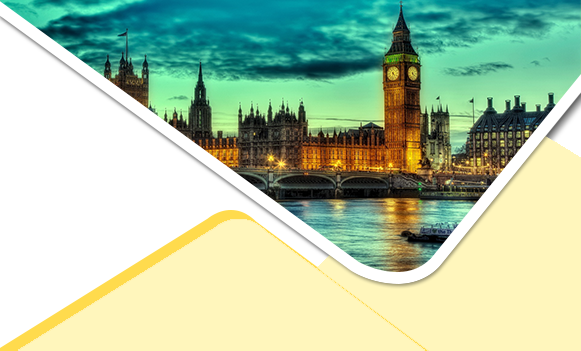
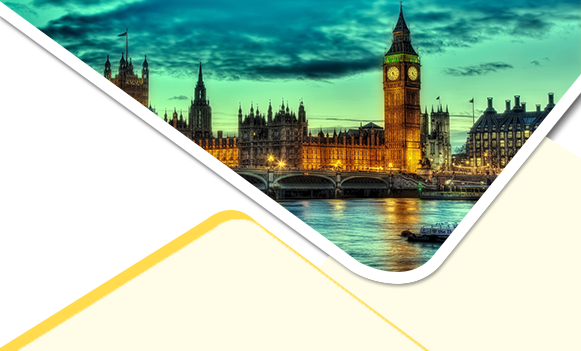
edit color more lighter

Changed region(s): [[0.031, 0.3989, 1.0, 1.0]]

diff --git a/css/style.min.css b/css/style.min.css
@@ -1,1 +1,1 @@
-*{font-family:sans-serif,fantasy;font-weight:600}body{font-size:1.5rem;color:#7b7b7b}.no-margin{margin:0}.no-padding{padding:0}.overflow-hidden{overflow:hidden}.position-reltive{position:relative}.no-border-radius{-ms-border-radius:0!important;-moz-border-radius:0!important;-webkit-border-radius:0!important;border-radius:0!important}.text-left{text-align:left}.text-justify{text-justify:justify}.p-t-2{padding-top:2%}.p-t-5{padding-top:5%}.p-t-20{padding-top:20px}.p-b-30{padding-bottom:30px}.m-t-14-res-5{margin-top:14%}.m-l-30{margin-left:30px}@media (max-width:767px){.m-t-14-res-5{margin-top:5%}}header{background-color:#ceefff}.header-img{width:100%;margin-top:-16px}.envelop{background-color:#fff;-webkit-box-shadow:1px 1px 3px #797979;-ms-box-shadow:1px 1px 3px #797979;box-shadow:1px 1px 3px#797979;width:12%;border-radius:0 0 15px 15px;padding:5px 0;position:absolute;left:149px;z-index:1}.envelop img,.footer-envelop img{width:100%}.small-header{color:#005977;font-style:italic;font-weight:800;font-size:19px;width:199px}header{text-align:left}header .row .col-xs-8,header .row .col-xs-4,header .row .col-xs-12{float:right;text-align:right}@media (max-width:1200px) and (min-width:767px){.header-img{height:258px;width:120%}.prag-text{font-size:1.4rem}}@media (max-width:767px){.header-img{width:66%}.envelop{left:15px;border-radius:0 0 8px 8px}.media-color-bg{background-color:#fff6bc}.envelop{width:20%}.small-header{font-size:18px}}@media (max-width:575px){header{direction:ltr}header .row .col-xs-8,header .row .col-xs-4,header .row .col-xs-12{float:left}header .row{direction:ltr}.header-img{width:76%}.small-header{font-size:16px}}.section1{background-color:#fff6bc}.section2{background-color:#fff}.section3{background:#fff6bc}@media (max-width:767px){header .prag-text{padding-bottom:4%}}.mascot-div{margin-left:15px;position:relative;display:block;text-decoration:none!important;min-height:100px;margin-bottom:50px}.mascot-img-div{cursor:pointer;width:100px;height:100px;-moz-transition:all 0.5s ease-in;-ms-transition:all 0.5s ease-in;-webkit-transition:all 0.5s ease-in;transition:all 0.1s ease-in}.mascot-div img{width:100%;-ms-border-radius:50%;-webkit-border-radius:50%;border-radius:50%}.mascot-details{color:#7b7b7b;font-size:15px;text-align:center;text-decoration:none}.dot{cursor:pointer;background:transparent;-webkit-border-radius:70px;-moz-border-radius:70px;border-radius:70px;height:130px;width:130px;-webkit-animation:pulse 3s ease-out;-moz-animation:pulse 3s ease-out;animation:pulse 3s ease-out;-webkit-animation-iteration-count:infinite;-moz-animation-iteration-count:infinite;animation-iteration-count:infinite;position:absolute;top:-16px;left:-15px;z-index:1;opacity:0}.dot-cyan{border:5px solid#ceefff}.dot-yellow{border:5px solid #ffdb4d}@keyframes pulse{0%{-webkit-transform:scale(.5);-moz-transform:scale(.5);transform:scale(.5);opacity:0}25%{-webkit-transform:scale(.5);-moz-transform:scale(.5);transform:scale(.5);opacity:.3}50%{-webkit-transform:scale(.6);-moz-transform:scale(.6);transform:scale(.6);opacity:.5}75%{-webkit-transform:scale(.8);-moz-transform:scale(.8);transform:scale(.8);opacity:.9}100%{-webkit-transform:scale(1.5);-ms-transform:scale(1.5);-moz-transform:scale(1.5);transform:scale(1.5);opacity:0}}.mascot-circle{margin-top:-136px;border-radius:50%;width:0;height:0;padding:0;overflow:hidden;transition:all 0.5s ease-in}.mascot-circle-cyan{background-color:#ceefff}.mascot-circle-yellow{background-color:#ffec9f}.active{width:350px;height:350px;padding:140px 30px 30px 30px}.mascot-title{position:absolute;width:220px;top:20px;left:77px;font-size:15px}.second-row-mascot{margin-top:-30px;font-size:13px}@media(max-width:500px){.active{width:280px;height:280px}.second-row-mascot{margin-top:-31px;font-size:10px}.first-row-mascot{margin-top:-31px;font-size:10px}.mascot-title{width:220px}.prag-algorithm-bg{background-color:#ffec9f;position:relative;z-index:3;margin-top:-4px}.div-mascot-api.active{padding:140px 6px 30px 6px!important}.div-mascot-api p{font-size:9px}}.mascot-api{-webkit-border-radius:50%;-moz-border-radius:50%;-ms-border-radius:50%;border-radius:50%;background-color:#ceefff;padding:10px}.mail-mascot{-webkit-border-radius:50%;-moz-border-radius:50%;-ms-border-radius:50%;border-radius:50%;background-color:#ffec9f;padding:10px}.footer{background-color:#ceefff;position:relative;font-size:15px}.footer-envelop{background-color:#fff;-webkit-box-shadow:-1px -1px 3px #797979;-ms-box-shadow:-1px -1px 3px #797979;box-shadow:-1px -1px 3px#797979;width:12%;border-radius:15px 15px 0 0;padding:5px 0;position:absolute;right:50px;bottom:0;z-index:1}@media (max-width:767px){.footer-envelop{width:20%}}@media (max-width:767px) and (min-width:620px){footer .prag-text{margin-bottom:50px}}
+*{font-family:sans-serif,fantasy;font-weight:600}body{font-size:1.5rem;color:#7b7b7b}.no-margin{margin:0}.no-padding{padding:0}.overflow-hidden{overflow:hidden}.position-reltive{position:relative}.no-border-radius{-ms-border-radius:0!important;-moz-border-radius:0!important;-webkit-border-radius:0!important;border-radius:0!important}.text-left{text-align:left}.text-justify{text-justify:justify}.p-t-2{padding-top:2%}.p-t-5{padding-top:5%}.p-t-20{padding-top:20px}.p-b-30{padding-bottom:30px}.m-t-14-res-5{margin-top:14%}.m-l-30{margin-left:30px}@media (max-width:767px){.m-t-14-res-5{margin-top:5%}}header{background-color:#e0eef9}.header-img{width:100%;margin-top:-16px}.envelop{background-color:#fff;-webkit-box-shadow:1px 1px 3px #797979;-ms-box-shadow:1px 1px 3px #797979;box-shadow:1px 1px 3px#797979;width:12%;border-radius:0 0 15px 15px;padding:5px 0;position:absolute;left:149px;z-index:1}.envelop img,.footer-envelop img{width:100%}.small-header{color:#005977;font-style:italic;font-weight:800;font-size:19px;width:199px}header{text-align:left}header .row .col-xs-8,header .row .col-xs-4,header .row .col-xs-12{float:right;text-align:right}@media (max-width:1200px) and (min-width:767px){.header-img{height:258px;width:120%}.prag-text{font-size:1.4rem}}@media (max-width:767px){.header-img{width:66%}.envelop{left:15px;border-radius:0 0 8px 8px}.media-color-bg{background-color:#fffce7}.envelop{width:20%}.small-header{font-size:18px}}@media (max-width:575px){header{direction:ltr}header .row .col-xs-8,header .row .col-xs-4,header .row .col-xs-12{float:left}header .row{direction:ltr}.header-img{width:76%}.small-header{font-size:16px}}.section1{background-color:#fffce7}.section2{background-color:#fff}.section3{background:#fffce7}@media (max-width:767px){header .prag-text{padding-bottom:4%}section .prag-text{padding-top:30px}}.mascot-div{margin-left:15px;position:relative;display:block;text-decoration:none!important;min-height:100px;margin-bottom:50px}.mascot-img-div{cursor:pointer;width:100px;height:100px;-moz-transition:all 0.5s ease-in;-ms-transition:all 0.5s ease-in;-webkit-transition:all 0.5s ease-in;transition:all 0.1s ease-in}.mascot-div img{width:100%;-ms-border-radius:50%;-webkit-border-radius:50%;border-radius:50%}.mascot-details{color:#7b7b7b;font-size:15px;text-align:center;text-decoration:none}.dot{cursor:pointer;background:transparent;-webkit-border-radius:70px;-moz-border-radius:70px;border-radius:70px;height:130px;width:130px;-webkit-animation:pulse 3s ease-out;-moz-animation:pulse 3s ease-out;animation:pulse 3s ease-out;-webkit-animation-iteration-count:infinite;-moz-animation-iteration-count:infinite;animation-iteration-count:infinite;position:absolute;top:-16px;left:-15px;z-index:1;opacity:0}.dot-cyan{border:5px solid#ceefff}.dot-yellow{border:5px solid #ffdb4d}@keyframes pulse{0%{-webkit-transform:scale(.5);-moz-transform:scale(.5);transform:scale(.5);opacity:0}25%{-webkit-transform:scale(.5);-moz-transform:scale(.5);transform:scale(.5);opacity:.3}50%{-webkit-transform:scale(.6);-moz-transform:scale(.6);transform:scale(.6);opacity:.5}75%{-webkit-transform:scale(.8);-moz-transform:scale(.8);transform:scale(.8);opacity:.9}100%{-webkit-transform:scale(1.5);-ms-transform:scale(1.5);-moz-transform:scale(1.5);transform:scale(1.5);opacity:0}}.mascot-circle{margin-top:-136px;border-radius:50%;width:0;height:0;padding:0;overflow:hidden;transition:all 0.5s ease-in}.mascot-circle-cyan{background-color:#ceefff}.mascot-circle-yellow{background-color:#ffec9f}.active{width:350px;height:350px;padding:140px 30px 30px 30px}.mascot-title{position:absolute;width:220px;top:20px;left:77px;font-size:15px}.second-row-mascot{margin-top:-30px;font-size:13px}@media(max-width:500px){.active{width:280px;height:280px}.second-row-mascot{margin-top:-31px;font-size:10px}.first-row-mascot{margin-top:-31px;font-size:10px}.mascot-title{width:220px}.prag-algorithm-bg{background-color:#ffec9f;position:relative;z-index:3;margin-top:-4px}.div-mascot-api.active{padding:140px 6px 30px 6px!important}.div-mascot-api p{font-size:9px}}.mascot-api{-webkit-border-radius:50%;-moz-border-radius:50%;-ms-border-radius:50%;border-radius:50%;background-color:#ceefff;padding:10px}.mail-mascot{-webkit-border-radius:50%;-moz-border-radius:50%;-ms-border-radius:50%;border-radius:50%;background-color:#ffec9f;padding:10px}.footer{background-color:#e0eef9;position:relative;font-size:15px}.footer-envelop{background-color:#fff;-webkit-box-shadow:-1px -1px 3px #797979;-ms-box-shadow:-1px -1px 3px #797979;box-shadow:-1px -1px 3px#797979;width:12%;border-radius:15px 15px 0 0;padding:5px 0;position:absolute;right:50px;bottom:0;z-index:1}@media (max-width:767px){.footer-envelop{width:20%}}@media (max-width:767px) and (min-width:620px){footer .prag-text{margin-bottom:50px}}

diff --git a/index.html b/index.html
@@ -37,7 +37,7 @@
                                 Dear Provider,
                             </h4>
                             <p class="text-justify prag-text">
-                                Having chosen the option to read more, it only confirms your eagerness to find more Sales Opportunities to increase your Sales Revenues and to evolve away from the exploitation of traditional Tour Operators and Online Travel Agencies. Such exploitation is always Unjustified.
+                                Having chosen the option to read more, it only confirms your eagerness,(a) to find more Sales Opportunities, (b) to increase your Sales Revenues, and (c) to evolve away from the exploitation of traditional Tour Operators and Online Travel Agencies. Such exploitation is always Unjustified.
                             </p>
                         </div>
                     </div>
@@ -55,7 +55,7 @@
                                 <span class="small-header">
                                     The reason why, 
                                 </span>
-                                We will not force you to reduce your price by 40% or 60% based on misleading excuses that the supply chain needs to be maintained. Instead, we will only ask for a fair commission<br/>
+                                We will not force you to reduce your price by 40% or 60% based on misleading excuses that the supply chain needs to be maintained. Instead, we will only ask for a fair commission 
                                 (Further details are available on the Consent Contract).
                             </p>
                         </div>
@@ -204,7 +204,7 @@
                         <div class="col-sm-offset-2 col-sm-10 text-left">
                             <p class="text-justify prag-text">
                                 You are invited to register at 
-                                <a href="http://www.dealtobook.com">www.dealtobook.com</a>, to E-sign the Consent Contract
+                                <a href="http://www.dealtobook.com">www.dealtobook.com</a>; and then to E-sign the Consent Contract
                             </p>
                         </div>
                         <div class="col-sm-1"></div>
